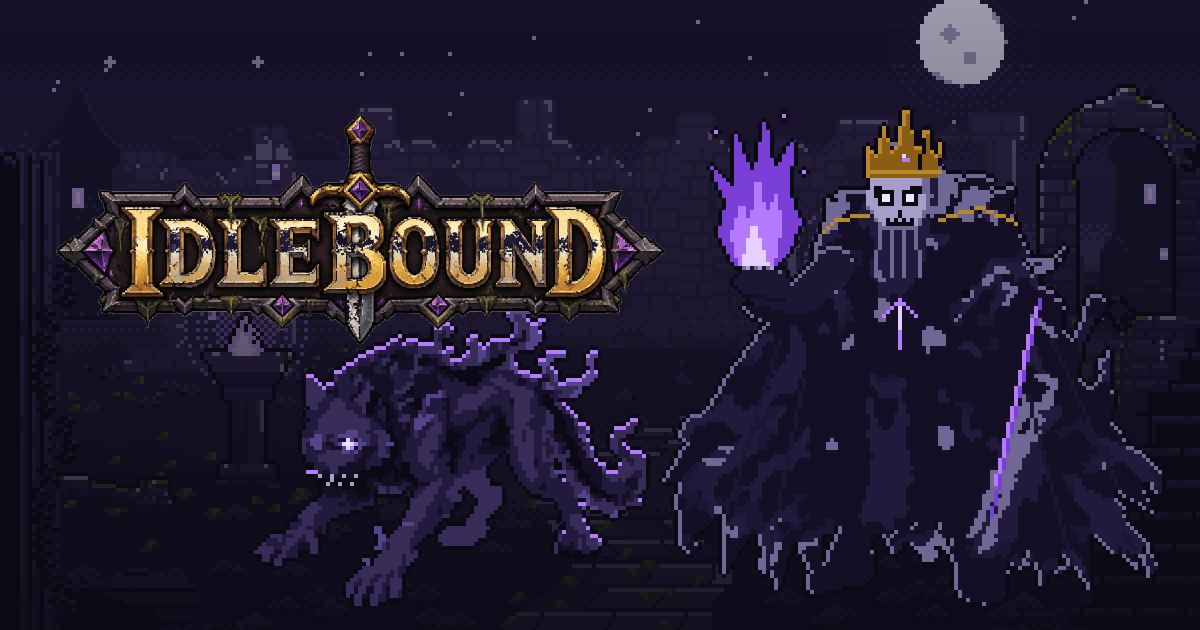
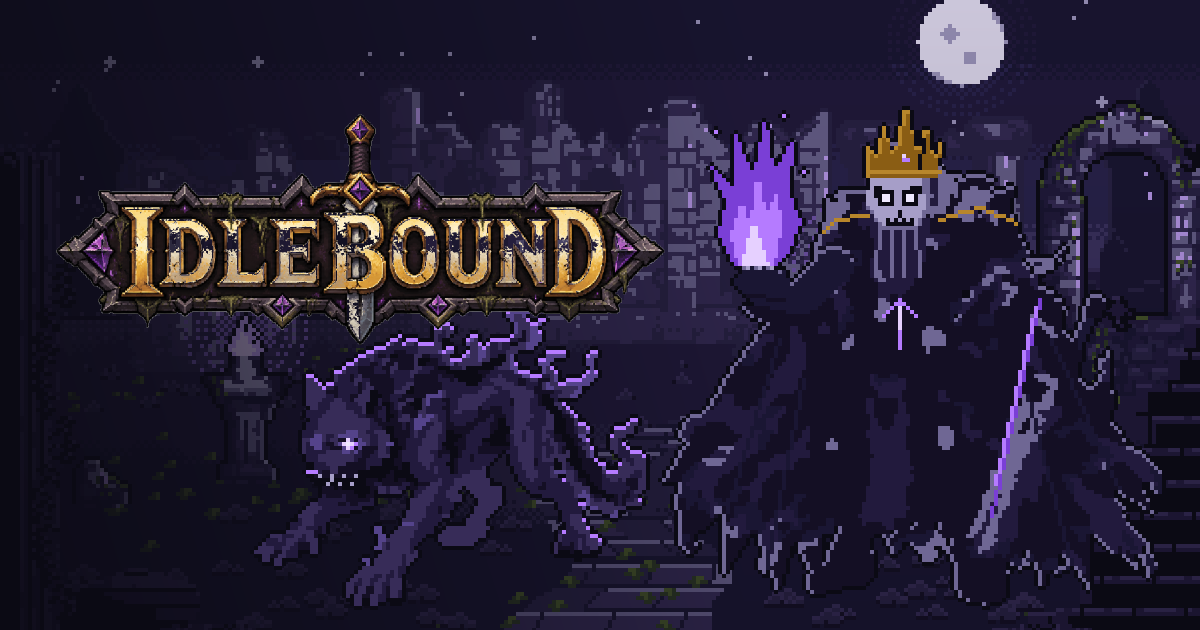
feat(site): the landing says the company fights while you are away; a fresh card; lighter pages
- The hero's lead says the idle side of the game at once, in both languages.
- The shared card (og.png) is drawn again by the current generator, the Keep, the King and
  the logo readable at thumbnail size.
- The italic faces are a family of their own, loaded when a page shows them instead of
  preloaded on every page.

diff --git a/apps/web/src/game/game.css b/apps/web/src/game/game.css
@@ -1026,6 +1026,7 @@ button.resource:hover .resource-label {
 
 .talent-tip em {
   font-style: normal;
+  font-family: var(--font-body);
   color: var(--violet-2);
   font-weight: 700;
 }
@@ -2356,6 +2357,7 @@ button.resource:hover .resource-label {
   margin: 0;
   font-size: 0.76rem;
   font-style: italic;
+  font-family: var(--font-italic);
   line-height: 1.45;
   color: var(--muted);
 }
@@ -2792,6 +2794,7 @@ button.resource:hover .resource-label {
   margin: 4px 0 0;
   font-size: 0.8rem;
   font-style: italic;
+  font-family: var(--font-italic);
   line-height: 1.45;
   color: var(--muted);
 }
@@ -2827,6 +2830,7 @@ button.resource:hover .resource-label {
   margin: 0;
   font-size: 0.88rem;
   font-style: italic;
+  font-family: var(--font-italic);
   line-height: 1.5;
   color: var(--text);
 }
@@ -3785,6 +3789,7 @@ kbd {
 
 .tip-again {
   font-style: normal;
+  font-family: var(--font-body);
   font-weight: 700;
   color: var(--gold-2);
 }
@@ -4518,6 +4523,7 @@ kbd {
   max-width: 60ch;
   font-size: 0.82rem;
   font-style: italic;
+  font-family: var(--font-italic);
   color: var(--text);
   text-shadow: 0 1px 6px rgba(11, 10, 20, 0.95);
 }
@@ -4548,6 +4554,7 @@ kbd {
   margin: 0;
   font-size: 0.8rem;
   font-style: italic;
+  font-family: var(--font-italic);
   line-height: 1.45;
   color: var(--text);
 }
@@ -4558,6 +4565,7 @@ kbd {
   margin-top: 3px;
   font-size: 0.72rem;
   font-style: normal;
+  font-family: var(--font-body);
   color: var(--faint);
 }
 
@@ -4641,6 +4649,7 @@ kbd {
   margin: 0 0 14px;
   font-size: 0.82rem;
   font-style: italic;
+  font-family: var(--font-italic);
   color: var(--faint);
 }
 
@@ -4681,6 +4690,7 @@ kbd {
 .crown-hover {
   font-size: 0.8rem;
   font-style: italic;
+  font-family: var(--font-italic);
   color: var(--violet-2);
   opacity: 0;
   transition: opacity 300ms ease;
@@ -4841,6 +4851,7 @@ kbd {
 /* What stays after an absence: the opening line's band, paler, and six seconds long. */
 .scene-dream {
   font-style: italic;
+  font-family: var(--font-italic);
   font-weight: 500;
   color: var(--violet-2);
   animation-duration: 6s;
@@ -4980,6 +4991,7 @@ kbd {
 .promise-none {
   margin: 0;
   font-style: italic;
+  font-family: var(--font-italic);
   color: var(--muted);
 }
 
@@ -5067,6 +5079,7 @@ kbd {
   margin: 4px 0;
   font-size: 0.88rem;
   font-style: italic;
+  font-family: var(--font-italic);
   line-height: 1.45;
   color: var(--text);
 }

diff --git a/apps/web/src/app/[locale]/layout.tsx b/apps/web/src/app/[locale]/layout.tsx
@@ -12,14 +12,23 @@ const body = localFont({
     { path: "../../fonts/alegreya-sans-latin-400.woff2", weight: "400", style: "normal" },
     { path: "../../fonts/alegreya-sans-latin-500.woff2", weight: "500", style: "normal" },
     { path: "../../fonts/alegreya-sans-latin-700.woff2", weight: "700", style: "normal" },
-    { path: "../../fonts/alegreya-sans-latin-800.woff2", weight: "800", style: "normal" },
+    { path: "../../fonts/alegreya-sans-latin-800.woff2", weight: "800", style: "normal" }
+  ],
+  variable: "--font-body",
+  display: "swap"
+});
+// The italics (lore lines, quotes, captions) are a family of their own, loaded when a page
+// shows them rather than preloaded on every page: see --font-italic in globals.css.
+const bodyItalic = localFont({
+  src: [
     { path: "../../fonts/alegreya-sans-latin-400-italic.woff2", weight: "400", style: "italic" },
     { path: "../../fonts/alegreya-sans-latin-500-italic.woff2", weight: "500", style: "italic" },
     { path: "../../fonts/alegreya-sans-latin-700-italic.woff2", weight: "700", style: "italic" },
     { path: "../../fonts/alegreya-sans-latin-800-italic.woff2", weight: "800", style: "italic" }
   ],
-  variable: "--font-body",
-  display: "swap"
+  variable: "--font-body-italic",
+  display: "swap",
+  preload: false
 });
 
 // Every page is rendered per request: runtime env (one image for dev and prod) and the
@@ -64,7 +73,7 @@ export default async function RootLayout({ children, params }: Props & { childre
   const locale = assertLocale((await params).locale);
   const preference = await getPreference();
   return (
-    <html lang={locale} className={`${display.variable} ${body.variable}`}>
+    <html lang={locale} className={`${display.variable} ${body.variable} ${bodyItalic.variable}`}>
       <body>
         <I18nProvider locale={locale} preference={preference}>{children}</I18nProvider>
       </body>

diff --git a/apps/web/src/i18n/messages/landing.ts b/apps/web/src/i18n/messages/landing.ts
@@ -16,7 +16,7 @@ export const landing = defineMessages({
     hero: {
       titleLead: "Terrasse le Roi déchu, ",
       titleAccent: "un coup à la fois.",
-      lead: "Chaque nuit, le Roi déchu se relève. Chaque nuit, tu te fraies un chemin jusqu'à son trône. Et quand il tombe, la route recommence.",
+      lead: "Chaque nuit, le Roi déchu se relève. Tu frappes, ta compagnie se bat même quand tu fais autre chose, et chaque nuit te mène un peu plus loin sur la route.",
       play: "Prendre la route",
       leaderboard: "Voir le classement",
       back: "Déjà en route ?",
@@ -90,7 +90,7 @@ export const landing = defineMessages({
     hero: {
       titleLead: "Slay the Fallen King, ",
       titleAccent: "one blow at a time.",
-      lead: "Every night, the Fallen King rises. Every night, you cut your way to his throne. And when he falls, the road begins again.",
+      lead: "Every night, the Fallen King rises. You strike, your company fights on while you do something else, and every night takes you a little further down the road.",
       play: "Take the road",
       leaderboard: "See the leaderboard",
       back: "Already on the road?",

diff --git a/apps/web/src/wiki/wiki.css b/apps/web/src/wiki/wiki.css
@@ -505,11 +505,13 @@
 .wiki-keystone {
   display: block;
   font-style: italic;
+  font-family: var(--font-italic);
   color: var(--text);
 }
 
 .wiki-keystone small {
   font-style: normal;
+  font-family: var(--font-body);
 }
 
 /* ------------------------------------------------------------------ cards and tiles */
@@ -771,6 +773,7 @@ a.wiki-tile:hover .wiki-tile-art {
 .wiki-quote p {
   margin: 0;
   font-style: italic;
+  font-family: var(--font-italic);
 }
 
 .wiki-quote footer {
@@ -788,10 +791,12 @@ a.wiki-tile:hover .wiki-tile-art {
   break-inside: avoid;
   padding: 0.2rem 0;
   font-style: italic;
+  font-family: var(--font-italic);
 }
 
 .wiki-scene-lines li p {
   font-style: italic;
+  font-family: var(--font-italic);
 }
 
 /* ------------------------------------------------------------------ biomes, events, secrets */
@@ -876,6 +881,7 @@ a.wiki-tile:hover .wiki-tile-art {
 .wiki-riddle {
   margin: 0.3rem 0 0.7rem;
   font-style: italic;
+  font-family: var(--font-italic);
   color: var(--muted);
 }
 

diff --git a/apps/web/src/app/globals.css b/apps/web/src/app/globals.css
@@ -37,6 +37,8 @@
   --bevel: inset 0 1px 0 rgba(255, 255, 255, 0.08);
   --shadow: 0 16px 40px rgba(0, 0, 0, 0.55);
   /* --font-display (Cinzel) and --font-body (Alegreya Sans) come from next/font on <html> ([locale]/layout.tsx): defined here too, they would name families that do not exist. */
+  /* Italic text names the italic family first: its faces live apart, never preloaded. */
+  --font-italic: var(--font-body-italic), var(--font-body), sans-serif;
   color-scheme: dark;
   /*
    * Screens today run from phones to 4K: past a laptop's size the whole interface grows, laid
@@ -829,4 +831,10 @@ button {
   display: grid;
   place-items: center;
   margin: 2rem auto 1rem;
+}
+
+/* Emphasis and citations take the italic family (lore lines, quotes); an override back to
+   upright text names the body family again. */
+:where(em, i, cite) {
+  font-family: var(--font-italic);
 }

diff --git a/apps/web/scripts/art.ts b/apps/web/scripts/art.ts
@@ -42,9 +42,10 @@ function blend(x: number, y: number, r: number, g: number, b: number, a: number)
   og.data[at + 3] = 255;
 }
 
-// The Keep at night, a veil of the night ink for the logo to read on.
+// The Keep at night, a veil of the night ink thick behind the logo and thin over the King,
+// so both still read on a thumbnail.
 place(toRgba(flattenScene(renderScene("fallen-king-ruins"))), -40, -80, SCALE);
-for (let y = 0; y < HEIGHT; y += 1) for (let x = 0; x < WIDTH; x += 1) blend(x, y, 11, 10, 20, (90 + 120 * (y / HEIGHT)) / 255);
+for (let y = 0; y < HEIGHT; y += 1) for (let x = 0; x < WIDTH; x += 1) blend(x, y, 11, 10, 20, (40 + 150 * Math.max(0, 1 - x / (WIDTH * 0.62)) + 40 * (y / HEIGHT)) / 255);
 
 // The Fallen King and a shade wolf, standing on the road.
 const floor = 606;

diff --git a/apps/web/src/app/[locale]/news/news.css b/apps/web/src/app/[locale]/news/news.css
@@ -31,6 +31,7 @@
   margin: 0;
   color: var(--muted) !important;
   font-style: italic;
+  font-family: var(--font-italic);
 }
 
 .news-feed {
@@ -396,6 +397,7 @@
   margin: 0.45rem 0 0;
   color: var(--muted) !important;
   font-style: italic;
+  font-family: var(--font-italic);
 }
 
 .news-body .news-entry-changes {
@@ -473,6 +475,7 @@
   color: var(--muted);
   font-size: 0.88rem;
   font-style: italic;
+  font-family: var(--font-italic);
   text-wrap: pretty;
 }
 

diff --git a/apps/web/src/app/[locale]/leaderboard/leaderboard.css b/apps/web/src/app/[locale]/leaderboard/leaderboard.css
@@ -84,6 +84,7 @@
   color: var(--muted) !important;
   font-size: 1rem;
   font-style: italic;
+  font-family: var(--font-italic);
 }
 
 /* Depth is the board that counts: its tab says so. */

diff --git a/DESIGN.md b/DESIGN.md
@@ -68,8 +68,11 @@ Content colors live with the game data, not in CSS:
 
 - **Display: Cinzel** (600, 700, 800) self-hosted via `next/font/local` (`src/fonts`, OFL), variable
   `--font-display`. Headings, the gold counter, big numbers, window titles. Serif, engraved, fantasy.
-- **Body: Alegreya Sans** (400, 500, 700, 800, italic) self-hosted via `next/font/local`, variable
+- **Body: Alegreya Sans** (400, 500, 700, 800) self-hosted via `next/font/local`, variable
   `--font-body`. Everything else: a humanist sans with calligraphic roots, very readable.
+  Its italics are a family of their own (`--font-body-italic`, never preloaded: a page loads
+  them when it shows them); italic text names `--font-italic` (the italics, then the body),
+  and `em`, `i` and `cite` take it by default.
   Base 16px, line-height 1.5. Labels are sentence case, never tracked capitals (Cinzel is
   the only face in capitals, by design).
   The two variables are set by `next/font` on `<html>` only: `globals.css` never redefines
